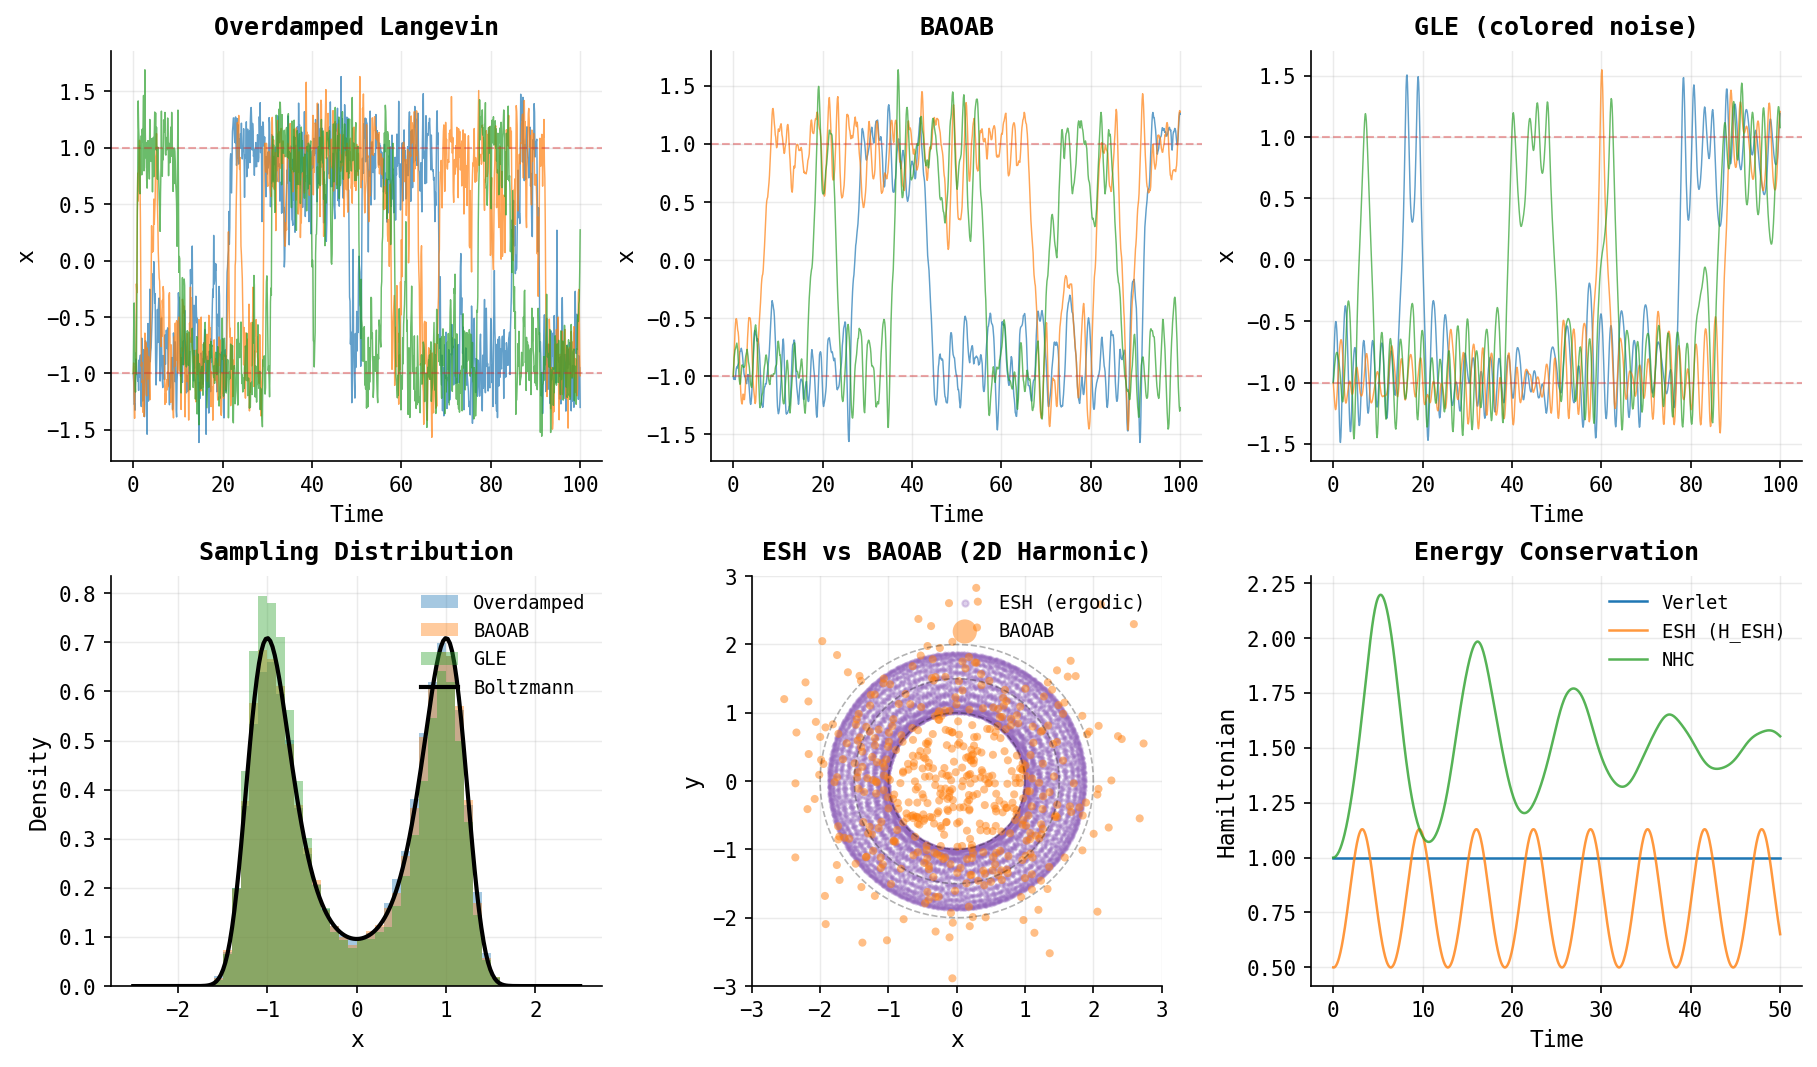
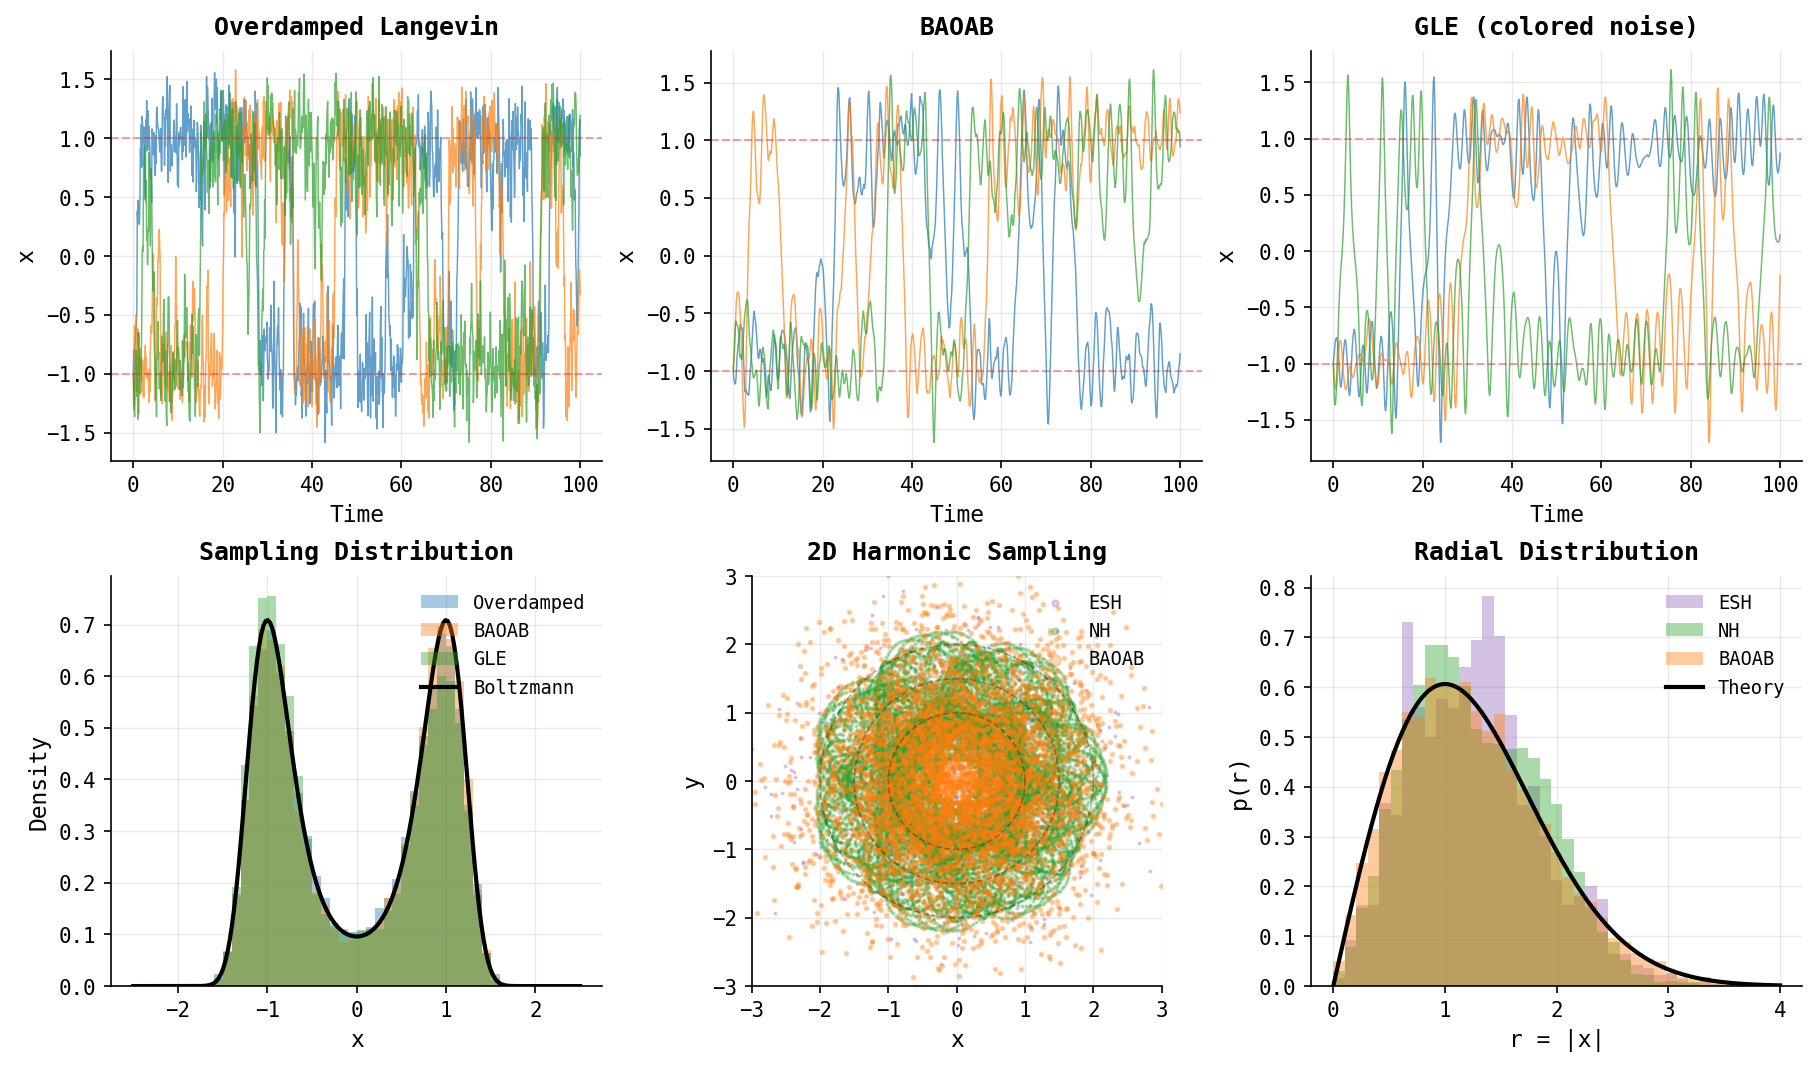
fixed NHC + ESH; double well 2d potential

diff --git a/uni_diffsim/integrators.py b/uni_diffsim/integrators.py
@@ -146,11 +146,92 @@ class VelocityVerlet(nn.Module):
         return torch.stack(traj_x_list, dim=0), torch.stack(traj_v_list, dim=0)
 
 
+class NoseHoover(nn.Module):
+    """Single Nosé-Hoover thermostat for deterministic canonical sampling.
+    
+    Uses the Kleinerman 08 symmetric integration scheme. Simpler and more
+    robust than chain thermostats for many applications.
+    
+    Reference: Kleinerman et al., J. Chem. Phys. 128, 124109 (2008)
+    
+    Args:
+        kT: Thermal energy (target temperature). Differentiable parameter.
+        mass: Particle mass. Differentiable parameter.
+        Q: Thermostat mass (coupling strength). Larger Q = slower coupling.
+    """
+    
+    def __init__(self, kT: float = 1.0, mass: float = 1.0, Q: float = 1.0):
+        super().__init__()
+        self.kT = nn.Parameter(torch.tensor(kT))
+        self.mass = nn.Parameter(torch.tensor(mass))
+        self.Q = nn.Parameter(torch.tensor(Q))
+    
+    def step(self, x: torch.Tensor, v: torch.Tensor, alpha: torch.Tensor,
+             force_fn: ForceFunc, dt: float
+             ) -> tuple[torch.Tensor, torch.Tensor, torch.Tensor]:
+        """Single Nosé-Hoover step using Kleinerman 08 scheme.
+        
+        Args:
+            x: positions (..., dim)
+            v: velocities (..., dim)  
+            alpha: thermostat variable (...,)
+            force_fn: force function
+            dt: time step
+            
+        Returns:
+            (new_x, new_v, new_alpha)
+        """
+        # Number of degrees of freedom (per batch element)
+        ndof = x.shape[-1]
+        
+        # Compute v^2 (kinetic energy * 2 / mass)
+        v2 = (v**2).sum(dim=-1)
+        
+        # First thermostat half-step
+        alpha = alpha + (dt / 4) * (v2 / self.kT - ndof)
+        v = v * torch.exp(-alpha.unsqueeze(-1) * dt / 2)
+        v2 = (v**2).sum(dim=-1)
+        alpha = alpha + (dt / 4) * (v2 / self.kT - ndof)
+        
+        # Velocity-Verlet for physical degrees of freedom
+        v = v + (dt / 2) * force_fn(x) / self.mass
+        x = x + dt * v
+        v = v + (dt / 2) * force_fn(x) / self.mass
+        
+        # Second thermostat half-step
+        v2 = (v**2).sum(dim=-1)
+        alpha = alpha + (dt / 4) * (v2 / self.kT - ndof)
+        v = v * torch.exp(-alpha.unsqueeze(-1) * dt / 2)
+        v2 = (v**2).sum(dim=-1)
+        alpha = alpha + (dt / 4) * (v2 / self.kT - ndof)
+        
+        return x, v, alpha
+    
+    def run(self, x0: torch.Tensor, v0: torch.Tensor | None, force_fn: ForceFunc,
+            dt: float, n_steps: int, store_every: int = 1
+            ) -> tuple[torch.Tensor, torch.Tensor]:
+        """Run trajectory. Returns (positions, velocities)."""
+        x = x0
+        v = v0 if v0 is not None else torch.randn_like(x0) * torch.sqrt(self.kT / self.mass)
+        alpha = torch.zeros(x0.shape[:-1], device=x0.device, dtype=x0.dtype)
+        
+        traj_x_list = [x0]
+        traj_v_list = [v]
+        for i in range(1, n_steps + 1):
+            x, v, alpha = self.step(x, v, alpha, force_fn, dt)
+            if i % store_every == 0:
+                traj_x_list.append(x)
+                traj_v_list.append(v)
+        return torch.stack(traj_x_list, dim=0), torch.stack(traj_v_list, dim=0)
+
+
 class NoseHooverChain(nn.Module):
     """Nosé-Hoover chain thermostat for deterministic canonical sampling.
     
     Extends phase space with thermostat variables to sample NVT ensemble
     without stochastic noise. Chain length > 1 improves ergodicity.
+    
+    Note: For simple systems, NoseHoover (single thermostat) often works better.
     
     Args:
         kT: Thermal energy. Differentiable parameter.
@@ -517,7 +598,7 @@ if __name__ == "__main__":
     import os
     import numpy as np
     import matplotlib.pyplot as plt
-    from .potentials import DoubleWell, Harmonic
+    from .potentials import DoubleWell, DoubleWell2D, Harmonic
     
     # Plotting style
     plt.rcParams.update({
@@ -624,83 +705,94 @@ if __name__ == "__main__":
     ax.legend(loc='upper right')
     ax.set_axisbelow(True)
     
-    # 5. ESH ergodic sampling on 2D Harmonic
+    # 5. ESH, NH, BAOAB sampling on 2D Harmonic
     ax = axes[1, 1]
     harm_2d = Harmonic(k=1.0)
+    kT_2d = 1.0
     
     def grad_harm_2d(x):
         return -harm_2d.force(x)
     
-    # ESH samples ergodically along a single trajectory
-    esh = ESH(eps=0.2)
-    x0_2d = torch.tensor([[1.0, 0.0]])
-    u0_2d = torch.tensor([[0.0, 1.0]])
+    # ESH: use random initial velocities
+    # Note: ESH requires time-weighting by exp(r) for correct Boltzmann samples
+    torch.manual_seed(42)
+    esh = ESH(eps=0.1)
+    n_esh_chains = 20
+    x0_esh = torch.randn(n_esh_chains, 2)
+    u0_esh = torch.randn(n_esh_chains, 2)
+    u0_esh = u0_esh / u0_esh.norm(dim=-1, keepdim=True)
     
-    traj_esh_2d, _, _ = esh.run(x0_2d, u0_2d, grad_harm_2d, n_steps=10000, 
-                                 dt=0.2, store_every=1)
-    traj_np = traj_esh_2d.squeeze(1).detach().numpy()
+    traj_esh_2d, _, traj_r = esh.run(x0_esh, u0_esh, grad_harm_2d, n_steps=10000, 
+                                      dt=0.1, store_every=1)
+    # Get samples after burn-in and compute time weights
+    burn_in = 2000
+    esh_x = traj_esh_2d[burn_in:].detach().numpy()  # (n_steps, n_chains, 2)
+    esh_r = traj_r[burn_in:].detach().numpy()  # (n_steps, n_chains)
+    esh_weights = np.exp(esh_r)
+    esh_weights = esh_weights / esh_weights.sum()  # normalize globally
+    esh_samples = esh_x.reshape(-1, 2)
+    esh_w_flat = esh_weights.flatten()
     
-    # Compare with BAOAB
-    baoab_2d = BAOAB(gamma=1.0, kT=1.0, mass=1.0)
-    traj_baoab_2d, _ = baoab_2d.run(
-        torch.zeros(500, 2), None, harm_2d.force, dt=0.05, n_steps=2000, store_every=20
-    )
-    baoab_samples = traj_baoab_2d[-1].detach().numpy()
+    # Nosé-Hoover sampling
+    nh_2d = NoseHoover(kT=kT_2d, mass=1.0, Q=1.0)
+    x0_nh = torch.randn(20, 2)
+    traj_nh_2d, _ = nh_2d.run(x0_nh, None, harm_2d.force, dt=0.05, n_steps=10000, store_every=1)
+    nh_samples = traj_nh_2d[2000:].reshape(-1, 2).detach().numpy()
     
-    ax.scatter(traj_np[1000:, 0], traj_np[1000:, 1], s=1, alpha=0.3, 
-               c='#9467bd', label='ESH (ergodic)')
-    ax.scatter(baoab_samples[:, 0], baoab_samples[:, 1], s=15, alpha=0.5,
-               c='#ff7f0e', edgecolor='none', label='BAOAB')
+    # BAOAB sampling
+    baoab_2d = BAOAB(gamma=1.0, kT=kT_2d, mass=1.0)
+    x0_baoab = torch.randn(200, 2)
+    traj_baoab_2d, _ = baoab_2d.run(x0_baoab, None, harm_2d.force, dt=0.05, n_steps=2000, store_every=20)
+    baoab_samples = traj_baoab_2d[20:].reshape(-1, 2).detach().numpy()
     
+    # Plot circles for reference
     theta = np.linspace(0, 2*np.pi, 100)
     for r in [1.0, 1.5, 2.0]:
         ax.plot(r*np.cos(theta), r*np.sin(theta), 'k--', alpha=0.3, lw=0.8)
+    
+    # For ESH, subsample based on weights (importance resampling)
+    n_resample = 5000
+    esh_idx = np.random.choice(len(esh_samples), size=n_resample, p=esh_w_flat)
+    esh_resampled = esh_samples[esh_idx]
+    
+    ax.scatter(esh_resampled[::5, 0], esh_resampled[::5, 1], s=1, alpha=0.3, 
+               c='#9467bd', label='ESH')
+    ax.scatter(nh_samples[::10, 0], nh_samples[::10, 1], s=1, alpha=0.3,
+               c='#2ca02c', label='NH')
+    ax.scatter(baoab_samples[::3, 0], baoab_samples[::3, 1], s=3, alpha=0.3,
+               c='#ff7f0e', label='BAOAB')
     
     ax.set_xlim(-3, 3)
     ax.set_ylim(-3, 3)
     ax.set_aspect('equal')
     ax.set_xlabel('x')
     ax.set_ylabel('y')
-    ax.set_title('ESH vs BAOAB (2D Harmonic)', fontweight='bold')
+    ax.set_title('2D Harmonic Sampling', fontweight='bold')
     ax.legend(loc='upper right', markerscale=3)
     ax.set_axisbelow(True)
     
-    # 6. Energy conservation comparison
+    # 6. Radial distribution comparison (using time-weighted ESH)
     ax = axes[1, 2]
-    harm = Harmonic(k=1.0)
-    def harm_force(x):
-        return harm.force(x)
-    def harm_grad(x):
-        return -harm_force(x)
     
-    x0_h = torch.tensor([[1.0, 0.0]])
-    v0_h = torch.tensor([[0.0, 1.0]])
-    dt_fine = 0.05
-    n_energy = 1000
+    # Compute radial distances
+    r_esh = np.sqrt(esh_resampled[:, 0]**2 + esh_resampled[:, 1]**2)
+    r_nh = np.sqrt(nh_samples[:, 0]**2 + nh_samples[:, 1]**2)
+    r_baoab = np.sqrt(baoab_samples[:, 0]**2 + baoab_samples[:, 1]**2)
     
-    # Verlet
-    verlet = VelocityVerlet(mass=1.0)
-    tx_v, tv_v = verlet.run(x0_h, v0_h, harm_force, dt_fine, n_energy)
-    E_verlet = harm.energy(tx_v.squeeze(1)) + kinetic_energy(tv_v.squeeze(1))
+    # Histogram
+    bins = np.linspace(0, 4, 40)
+    ax.hist(r_esh, bins=bins, density=True, alpha=0.4, color='#9467bd', label='ESH')
+    ax.hist(r_nh, bins=bins, density=True, alpha=0.4, color='#2ca02c', label='NH')
+    ax.hist(r_baoab, bins=bins, density=True, alpha=0.4, color='#ff7f0e', label='BAOAB')
     
-    # ESH (conserves modified Hamiltonian)
-    esh_h = ESH(eps=dt_fine)
-    tx_e, tu_e, tr_e = esh_h.run(x0_h, None, harm_grad, n_energy, dt=dt_fine)
-    # ESH Hamiltonian: H = E(x) + d/2 * log(|v|²/d) = E(x) + r + const
-    E_esh = harm.energy(tx_e.squeeze(1)) + tr_e.squeeze(1)
+    # Theoretical: p(r) = r * exp(-r²/2kT) / kT for 2D harmonic with k=1
+    r_th = np.linspace(0, 4, 200)
+    p_th = r_th * np.exp(-r_th**2 / (2 * kT_2d)) / kT_2d
+    ax.plot(r_th, p_th, 'k-', lw=2, label='Theory')
     
-    # NHC
-    nhc = NoseHooverChain(kT=0.5, mass=1.0, Q=1.0)
-    tx_n, tv_n = nhc.run(x0_h, v0_h, harm_force, dt_fine, n_energy)
-    E_nhc = harm.energy(tx_n.squeeze(1)) + kinetic_energy(tv_n.squeeze(1))
-    
-    t_e = np.arange(n_energy + 1) * dt_fine
-    ax.plot(t_e, E_verlet.detach().numpy(), label='Verlet', lw=1.2)
-    ax.plot(t_e, E_esh.detach().numpy(), label='ESH (H_ESH)', lw=1.2, alpha=0.8)
-    ax.plot(t_e, E_nhc.detach().numpy(), label='NHC', lw=1.2, alpha=0.8)
-    ax.set_xlabel('Time')
-    ax.set_ylabel('Hamiltonian')
-    ax.set_title('Energy Conservation', fontweight='bold')
+    ax.set_xlabel('r = |x|')
+    ax.set_ylabel('p(r)')
+    ax.set_title('Radial Distribution', fontweight='bold')
     ax.legend()
     ax.set_axisbelow(True)
     

diff --git a/tests/test_integrators.py b/tests/test_integrators.py
@@ -4,7 +4,7 @@ import pytest
 import torch
 import math
 from uni_diffsim.integrators import (
-    OverdampedLangevin, BAOAB, VelocityVerlet, NoseHooverChain, ESH, GLE,
+    OverdampedLangevin, BAOAB, VelocityVerlet, NoseHoover, NoseHooverChain, ESH, GLE,
     kinetic_energy, temperature,
 )
 from uni_diffsim.potentials import DoubleWell, Harmonic, MullerBrown
@@ -141,6 +141,48 @@ class TestVelocityVerlet:
         area_final = abs(dx1 * dv2 - dx2 * dv1)
         area_initial = eps * eps
         assert abs(area_final - area_initial) / area_initial < 0.05
+
+
+class TestNoseHoover:
+    """Tests for single Nosé-Hoover thermostat."""
+    
+    @pytest.mark.parametrize("device", DEVICES)
+    def test_step_shape(self, device):
+        """Step should preserve shape."""
+        integrator = NoseHoover(kT=1.0, mass=1.0, Q=1.0)
+        x = torch.randn(10, 3, device=device)
+        v = torch.randn(10, 3, device=device)
+        alpha = torch.zeros(10, device=device)
+        force_fn = lambda x: -x
+        x_new, v_new, alpha_new = integrator.step(x, v, alpha, force_fn, dt=0.01)
+        assert x_new.shape == x.shape
+        assert v_new.shape == v.shape
+        assert alpha_new.shape == alpha.shape
+    
+    @pytest.mark.parametrize("device", DEVICES)
+    def test_run_shape(self, device):
+        """Run should return correct trajectory shape."""
+        integrator = NoseHoover(kT=1.0)
+        x0 = torch.randn(10, 3, device=device)
+        force_fn = lambda x: -x
+        traj_x, traj_v = integrator.run(x0, None, force_fn, dt=0.01, n_steps=100)
+        assert traj_x.shape == (101, 10, 3)
+        assert traj_v.shape == (101, 10, 3)
+    
+    @pytest.mark.parametrize("device", DEVICES)
+    def test_temperature_equilibration(self, device):
+        """Temperature should equilibrate to target kT."""
+        torch.manual_seed(42)
+        target_kT = 1.0
+        integrator = NoseHoover(kT=target_kT, mass=1.0, Q=1.0)
+        x0 = torch.zeros(100, 2, device=device)
+        v0 = torch.randn(100, 2, device=device) * 0.5
+        harm = Harmonic(k=1.0).to(device)
+        traj_x, traj_v = integrator.run(x0, v0, harm.force, dt=0.01, n_steps=5000)
+        # Check temperature in second half of trajectory
+        T_samples = temperature(traj_v[2500:], mass=1.0)
+        T_mean = T_samples.mean()
+        assert 0.5 * target_kT < T_mean < 1.5 * target_kT
 
 
 class TestNoseHooverChain:
@@ -348,6 +390,21 @@ class TestVectorization:
             assert v_new.shape == shape
     
     @pytest.mark.parametrize("device", DEVICES)
+    def test_nh_batch(self, device):
+        """NoseHoover should handle batch dimensions."""
+        integrator = NoseHoover(kT=1.0, mass=1.0, Q=1.0)
+        force_fn = lambda x: -x
+        for batch_shape, dim in [((10,), 3), ((5, 10), 3), ((2, 3, 4), 2)]:
+            shape = batch_shape + (dim,)
+            x = torch.randn(shape, device=device)
+            v = torch.randn(shape, device=device)
+            alpha = torch.zeros(batch_shape, device=device)
+            x_new, v_new, alpha_new = integrator.step(x, v, alpha, force_fn, dt=0.01)
+            assert x_new.shape == shape
+            assert v_new.shape == shape
+            assert alpha_new.shape == batch_shape
+    
+    @pytest.mark.parametrize("device", DEVICES)
     def test_nhc_batch(self, device):
         """NoseHooverChain should handle batch dimensions."""
         integrator = NoseHooverChain(kT=1.0, mass=1.0, Q=1.0, n_chain=2)
@@ -509,17 +566,17 @@ class TestDifferentiability:
         assert torch.isfinite(k.grad)
     
     @pytest.mark.parametrize("device", DEVICES)
-    def test_nhc_differentiable(self, device):
-        """NoseHooverChain should be differentiable."""
-        nhc = NoseHooverChain(kT=0.5, mass=1.0, Q=1.0, n_chain=2)
+    def test_nh_differentiable(self, device):
+        """NoseHoover should be differentiable."""
+        nh = NoseHoover(kT=0.5, mass=1.0, Q=1.0)
         k = torch.tensor([1.0], device=device, requires_grad=True)
         x = torch.tensor([[1.0, 0.0]], device=device)
         v = torch.tensor([[0.0, 1.0]], device=device)
-        xi = torch.zeros(1, 2, device=device)
+        alpha = torch.zeros(1, device=device)
         def force_fn(x):
             return -k * x
         for _ in range(10):
-            x, v, xi = nhc.step(x, v, xi, force_fn, dt=0.01, ndof=2)
+            x, v, alpha = nh.step(x, v, alpha, force_fn, dt=0.01)
         loss = x.pow(2).sum()
         loss.backward()
         assert k.grad is not None

diff --git a/uni_diffsim/potentials.py b/uni_diffsim/potentials.py
@@ -57,6 +57,29 @@ class DoubleWell(Potential):
         return self.barrier_height * (x**2 - 1)**2
 
 
+class DoubleWell2D(Potential):
+    """2D Double well: U(x,y) = a*(x² - 1)² + b*y².
+    
+    Two minima at (±1, 0), connected by a saddle at (0, 0).
+    The y-direction is a simple harmonic potential.
+    
+    Input shape: (..., 2). Output shape: (...,).
+    
+    Args:
+        barrier_height: Height of the barrier in x-direction. Differentiable parameter.
+        k_y: Spring constant in y-direction. Differentiable parameter.
+    """
+    
+    def __init__(self, barrier_height: float = 1.0, k_y: float = 1.0):
+        super().__init__()
+        self.barrier_height = nn.Parameter(torch.tensor(barrier_height))
+        self.k_y = nn.Parameter(torch.tensor(k_y))
+    
+    def energy(self, xy: torch.Tensor) -> torch.Tensor:
+        x, y = xy[..., 0], xy[..., 1]
+        return self.barrier_height * (x**2 - 1)**2 + 0.5 * self.k_y * y**2
+
+
 class MullerBrown(Potential):
     """2D Müller-Brown potential - classic reaction path benchmark.
     
